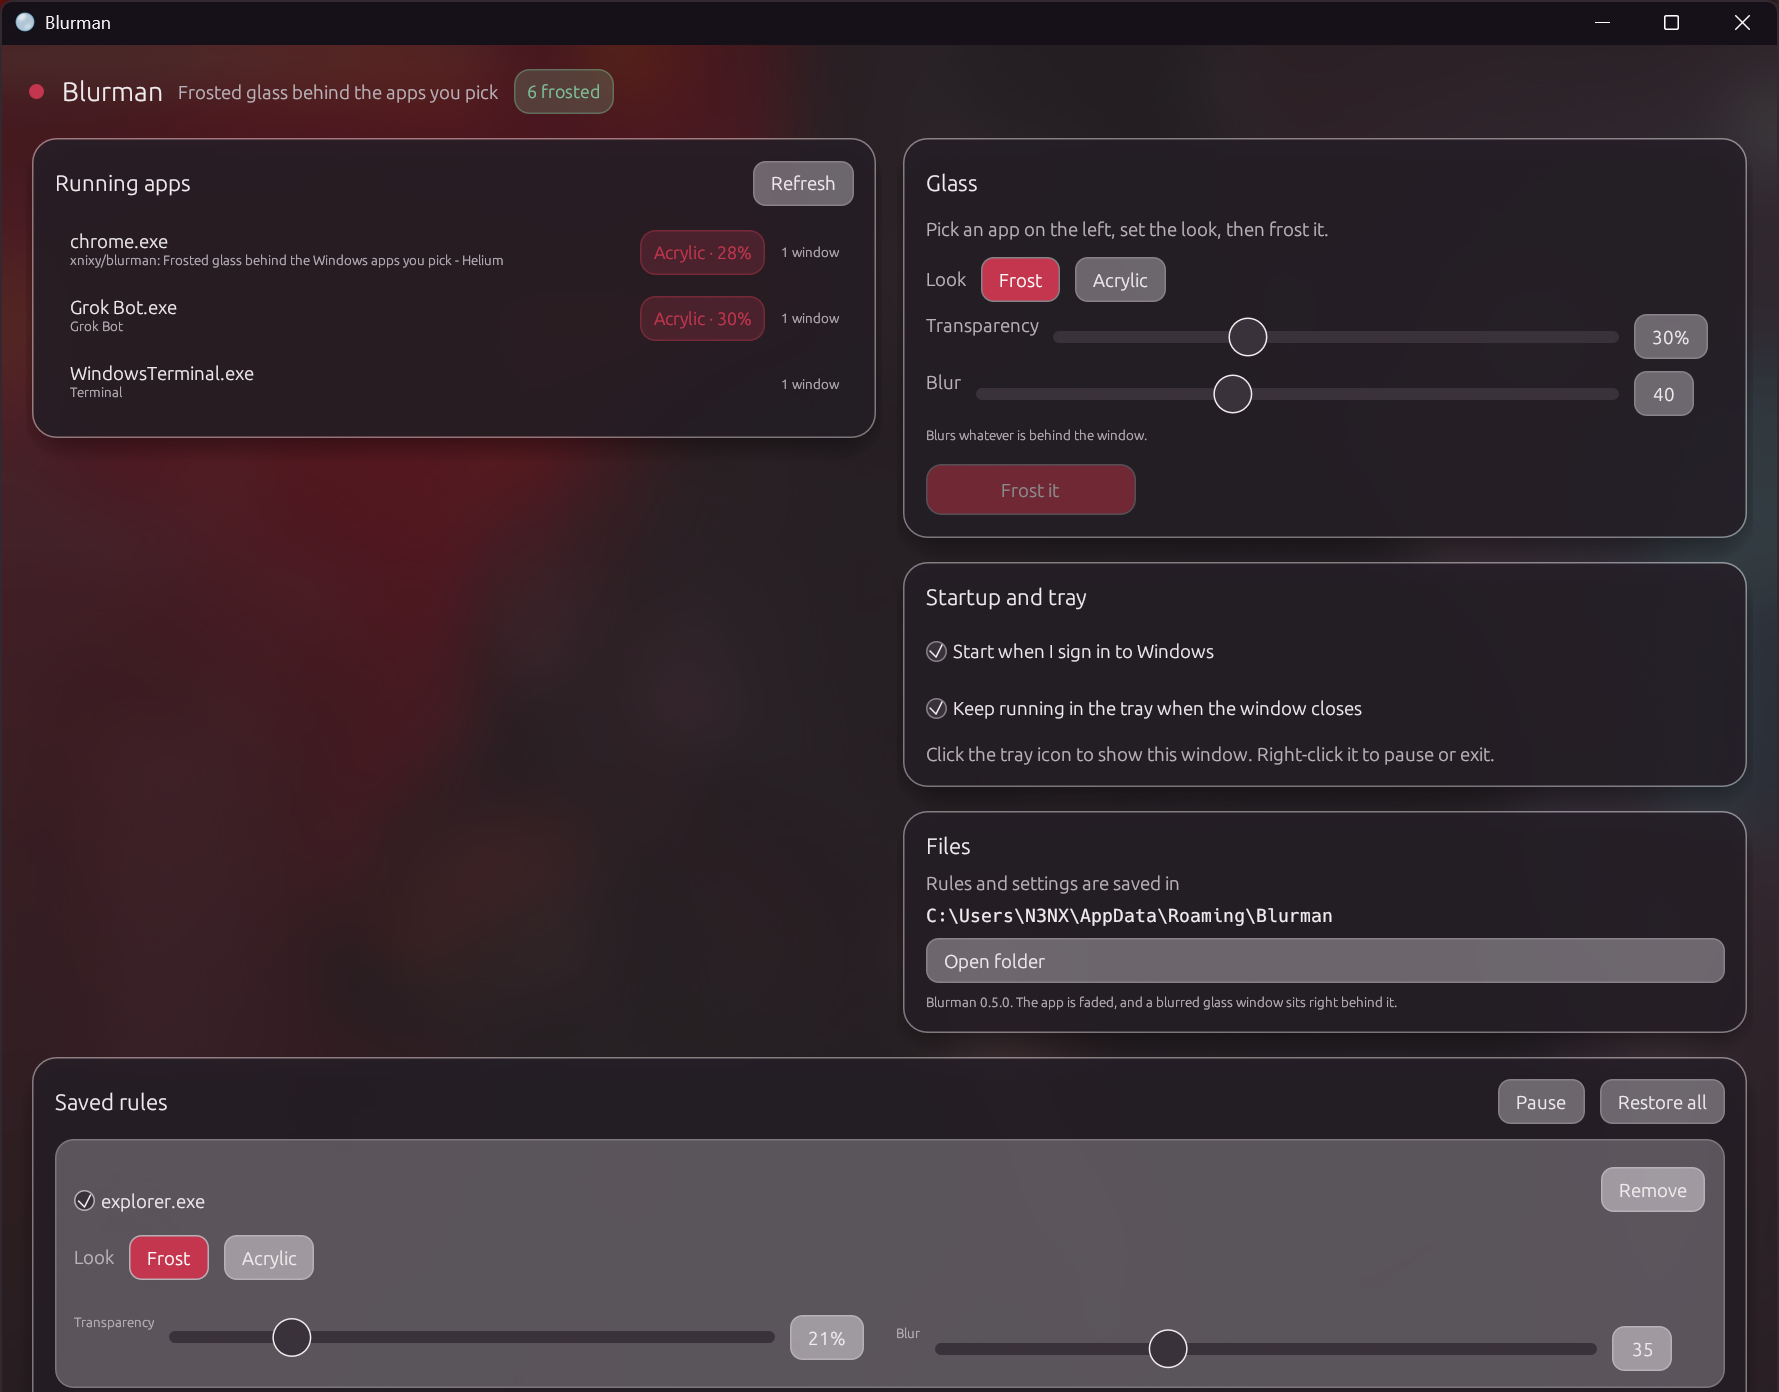
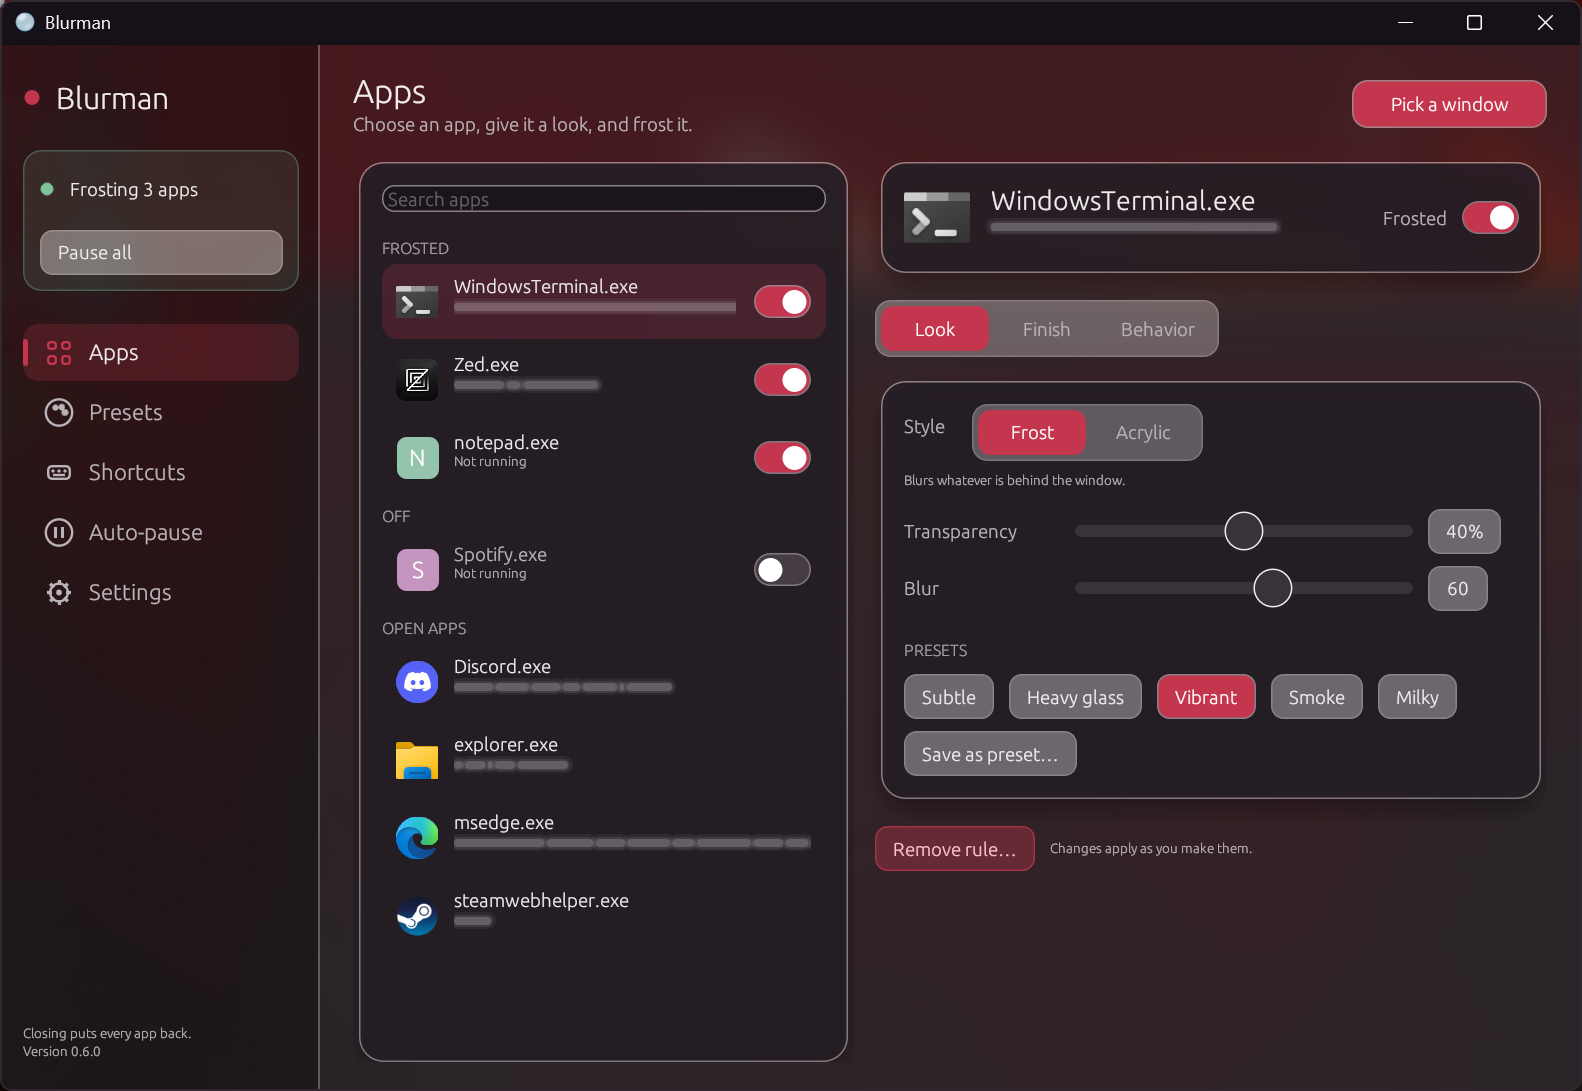
Show the new window in the README, with window titles redacted.
- docs/app.png, finish.png, and presets.png show the Apps page, the Finish tab, and the Presets page.
- Debug builds can blank out window titles (BLURMAN_UI_REDACT) and show rules without touching any window (BLURMAN_UI_DRY), for screenshots taken beside a running Blurman.
- eframe's saved window size and position now follow BLURMAN_PROFILE too, so a test profile no longer moves your window.

diff --git a/src/app/widgets.rs b/src/app/widgets.rs
@@ -474,7 +474,7 @@ pub fn app_row(ui: &mut Ui, info: &mut RowInfo<'_>) -> RowResponse {
             .strong()
             .color(if dim { MUTED } else { TEXT }),
     );
-    text_ui.label(theme::muted(info.subtitle).small());
+    window_title(&mut text_ui, info.subtitle);
 
     if let Some(warning) = info.warning {
         let center = egui::pos2(
@@ -507,6 +507,53 @@ pub fn app_row(ui: &mut Ui, info: &mut RowInfo<'_>) -> RowResponse {
     RowResponse {
         clicked: row.clicked() && !toggled,
         toggled,
+    }
+}
+
+/// Set in debug builds by BLURMAN_UI_REDACT, for screenshots that should not show what you
+/// have open.
+static REDACT: std::sync::atomic::AtomicBool = std::sync::atomic::AtomicBool::new(false);
+
+#[cfg(debug_assertions)]
+pub fn set_redact(on: bool) {
+    REDACT.store(on, std::sync::atomic::Ordering::Relaxed);
+}
+
+/// A window title under an app's name. When redacting, each word becomes a soft blob of the
+/// same width, so the title keeps its shape and none of its letters.
+pub fn window_title(ui: &mut Ui, title: &str) {
+    let redact = REDACT.load(std::sync::atomic::Ordering::Relaxed) && title != "Not running";
+    if !redact {
+        ui.label(theme::muted(title).small());
+        return;
+    }
+    let size = egui::TextStyle::Small.resolve(ui.style()).size;
+    let space = text_width(ui, " ", size);
+    let words: Vec<f32> = title
+        .split_whitespace()
+        .map(|word| text_width(ui, word, size))
+        .collect();
+    let total = words.iter().sum::<f32>() + space * words.len().saturating_sub(1) as f32;
+    let width = total.min(ui.available_width());
+    let (rect, _) = ui.allocate_exact_size(egui::vec2(width, size * 1.25), Sense::hover());
+    let painter = ui
+        .painter()
+        .with_clip_rect(rect.expand(4.0).intersect(ui.clip_rect()));
+    let mut x = rect.left();
+    for word in words {
+        let blob = Rect::from_min_size(
+            egui::pos2(x, rect.center().y - size * 0.3),
+            egui::vec2(word, size * 0.6),
+        );
+        // A faint halo around a firmer core reads as text seen through frosted glass.
+        for (grow, alpha) in [(3.0_f32, 0.08), (1.5, 0.14), (0.0, 0.28)] {
+            painter.rect_filled(
+                blob.expand(grow),
+                CornerRadius::same((size * 0.3 + grow) as u8),
+                MUTED.gamma_multiply(alpha),
+            );
+        }
+        x += word + space;
     }
 }
 

diff --git a/src/worker.rs b/src/worker.rs
@@ -343,6 +343,9 @@ impl Engine {
     }
 
     fn reconcile(&mut self) {
+        if dry_run() {
+            return;
+        }
         if self.paused() {
             self.note_fullscreen(Vec::new());
             self.restore_all();
@@ -620,7 +623,7 @@ impl Engine {
     /// Fade a window of a ruled app right away, before it is shown or titled, so it never
     /// appears solid first. The glass follows once it qualifies as an app window.
     fn fade_early(&mut self, hwnd: HWND) -> bool {
-        if target::is_minimized(hwnd) {
+        if dry_run() || target::is_minimized(hwnd) {
             return false;
         }
         let Some(pid) = target::early_candidate(hwnd) else {
@@ -1216,6 +1219,18 @@ fn apply_values(
         }
     }
     shared.fallback.store(glass.fallback(), Ordering::SeqCst);
+}
+
+/// Debug builds only: with BLURMAN_UI_DRY set, the window shows its rules but no window is
+/// touched, so screenshots can be taken while another Blurman frosts the same apps.
+fn dry_run() -> bool {
+    #[cfg(debug_assertions)]
+    {
+        static DRY: std::sync::OnceLock<bool> = std::sync::OnceLock::new();
+        *DRY.get_or_init(|| std::env::var_os("BLURMAN_UI_DRY").is_some())
+    }
+    #[cfg(not(debug_assertions))]
+    false
 }
 
 /// The app in front, unless it is Blurman itself.

diff --git a/src/app/mod.rs b/src/app/mod.rs
@@ -78,8 +78,10 @@ fn open_window(shared: &Arc<Shared>, tray_session: bool) -> Result<(), String> {
         ..Default::default()
     };
     let app_shared = shared.clone();
+    // eframe keeps window size and position in a folder named after the app, so a test
+    // profile gets its own name and leaves yours alone.
     let result = eframe::run_native(
-        "Blurman",
+        &ipc::scoped("Blurman"),
         options,
         Box::new(move |cc| {
             theme::apply(&cc.egui_ctx);
@@ -316,6 +318,9 @@ impl BlurmanApp {
         }
         if var("BLURMAN_UI_CONFIRM").is_some() {
             self.confirm = Some(Confirm::RestoreAll);
+        }
+        if var("BLURMAN_UI_REDACT").is_some() {
+            widgets::set_redact(true);
         }
         if let Some(text) = var("BLURMAN_UI_TOAST") {
             // Long enough to be captured.

diff --git a/src/app/apps.rs b/src/app/apps.rs
@@ -212,7 +212,7 @@ impl BlurmanApp {
                                     .as_ref()
                                     .map(|group| group.sample_title.clone())
                                     .unwrap_or_else(|| "Not running".into());
-                                ui.label(theme::muted(subtitle).small());
+                                widgets::window_title(ui, &subtitle);
                             },
                         );
                         ui.with_layout(Layout::right_to_left(Align::Center), |ui| match ruled {

diff --git a/README.md b/README.md
@@ -4,7 +4,12 @@ Frosted glass behind the Windows apps you pick. Chrome, Edge, Electron apps, Not
 
 ![A Notepad window frosted by Blurman, with the wallpaper blurred behind it](docs/frosted.png)
 
-<p align="center"><img src="docs/app.png" alt="The Blurman window" width="880"></p>
+<p align="center"><img src="docs/app.png" alt="The Blurman window: frosted apps with switches on the left, and the selected app's look on the right" width="880"></p>
+
+<p align="center">
+  <img src="docs/finish.png" alt="The Finish tab, with tint, saturation, and grain" width="436">
+  <img src="docs/presets.png" alt="The Presets page, with the five built-in looks" width="436">
+</p>
 
 ## Features
 
